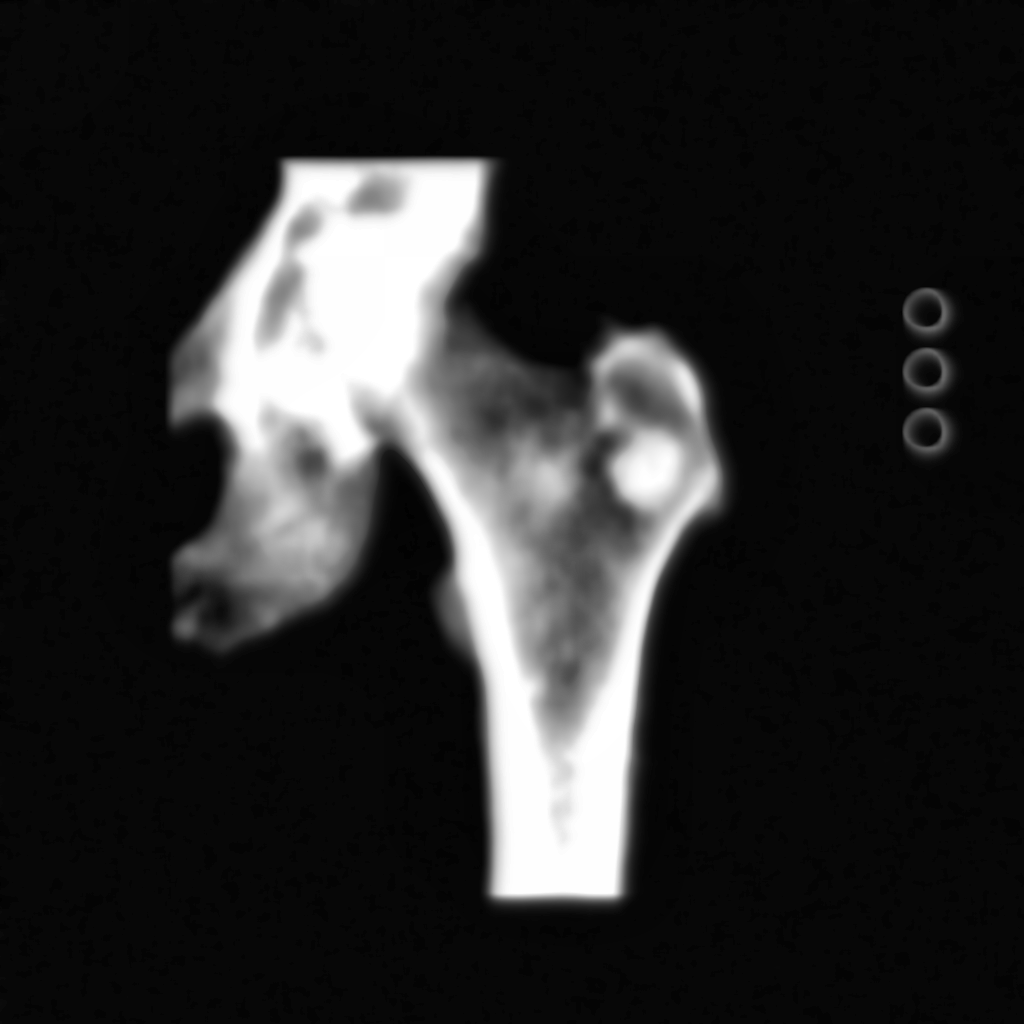
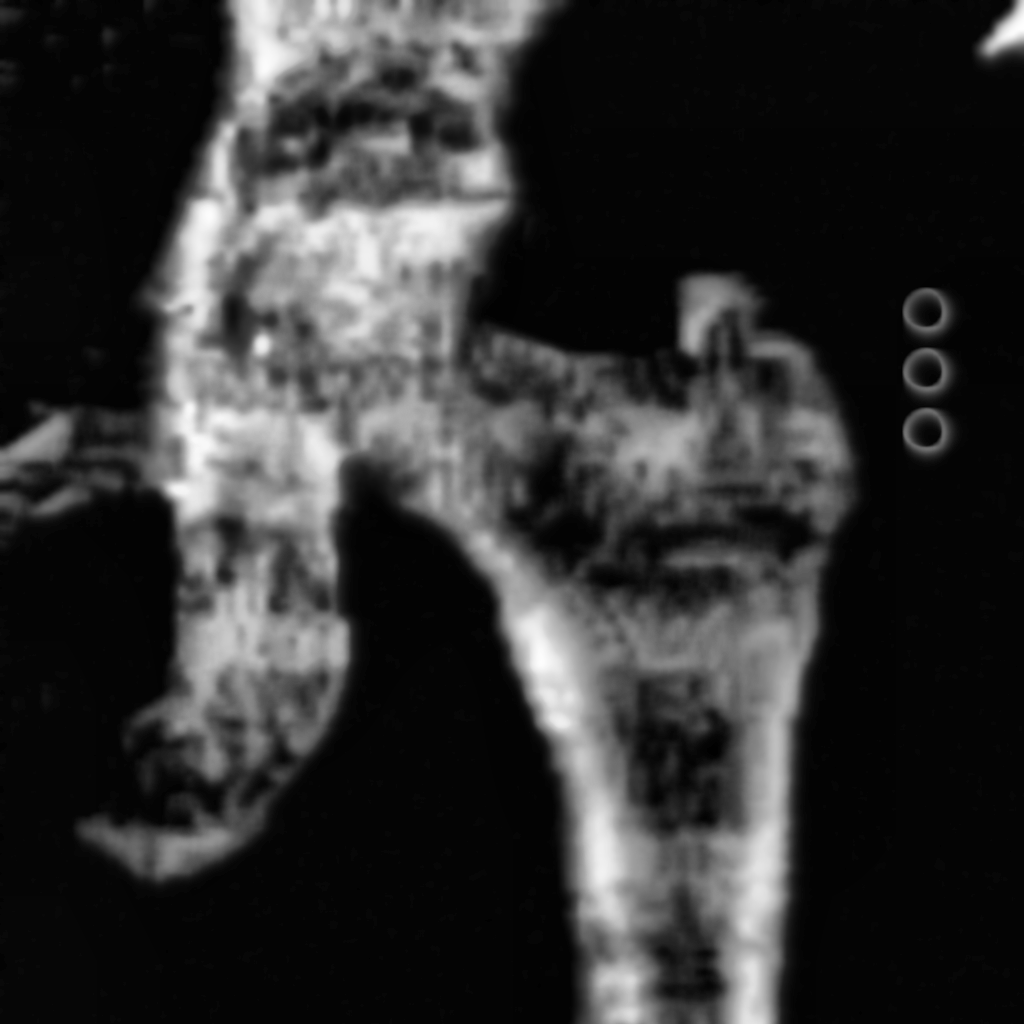
working

diff --git a/src/kalman_filter.py b/src/kalman_filter.py
@@ -23,6 +23,10 @@ class KalmanFilterImage:
 
     Applies multiple 1-D Kalman sweeps along rows and then columns
     to achieve 2-D smoothing.
+    
+    CONCEPTO CLAVE DEL CURSO: Este filtro implementa estimación recursiva bayesiana
+    aplicando el teorema de Bayes para actualizar la estimación del estado (valor del píxel)
+    con cada nueva observación (píxel ruidoso).
     """
     def __init__(self,
                  process_noise: float = 1e-5,
@@ -30,72 +34,106 @@ class KalmanFilterImage:
                  initial_uncertainty: float = 1.0,
                  passes: int = 2):
         """
+        Inicialización del filtro de Kalman con parámetros clave.
+        
+        CONCEPTOS DEL CURSO APLICADOS:
+        - process_noise (Q): Incertidumbre del modelo de estado
+        - measurement_noise (R): Incertidumbre de la observación
+        - initial_uncertainty (P0): Incertidumbre inicial a priori
+        
         Args:
-            process_noise:       Q (process variance, on [0,1] scale)
-            measurement_noise:   R (measurement variance, on [0,1] scale)
-            initial_uncertainty: initial P (variance) at start of each scanline
-            passes:              how many horizontal+vertical sweeps to do
+            process_noise:       Q (process variance, on [0,1] scale) - Ruido del proceso
+            measurement_noise:   R (measurement variance, on [0,1] scale) - Ruido de medición
+            initial_uncertainty: initial P (variance) at start of each scanline - Incertidumbre inicial
+            passes:              how many horizontal+vertical sweeps to do - Número de pasadas
         """
-        self.Q = process_noise
-        self.R = measurement_noise
-        self.P0 = initial_uncertainty
-        self.passes = max(1, passes)
+        # PARÁMETROS DEL FILTRO DE KALMAN (CONCEPTOS FUNDAMENTALES DEL CURSO)
+        self.Q = process_noise        # Q: Varianza del ruido del proceso (modelo de estado)
+        self.R = measurement_noise    # R: Varianza del ruido de medición (observaciones)
+        self.P0 = initial_uncertainty # P0: Incertidumbre inicial (varianza a priori)
+        self.passes = max(1, passes)  # Número de pasadas horizontales + verticales
+        
         logger.info(f"KalmanFilterImage(Q={self.Q}, R={self.R}, P0={self.P0}, passes={self.passes})")
 
     def filter_image(self, image: np.ndarray) -> np.ndarray:
         """
-        Apply the filter in 'passes' sweeps: horizontal then vertical.
-
+        Aplica el filtro de Kalman en múltiples pasadas: horizontal y luego vertical.
+        
+        ALGORITMO DE ESTIMACIÓN RECURSIVA:
+        1. Predicción: x̂(k|k-1) = x̂(k-1|k-1) (estado anterior)
+        2. Actualización: x̂(k|k) = x̂(k|k-1) + K(k)[z(k) - x̂(k|k-1)]
+        3. Ganancia de Kalman: K(k) = P(k|k-1) / [P(k|k-1) + R]
+        
         Args:
-            image: grayscale, uint8 or float32
+            image: grayscale, uint8 or float32 - Imagen de entrada
 
         Returns:
-            filtered image (float32, [0,1])
+            filtered image (float32, [0,1]) - Imagen filtrada
         """
+        # PREPROCESAMIENTO: Normalización de la imagen a rango [0,1]
         img = image.astype(np.float32)
         if img.max() > 1.0:
             img /= 255.0
 
-        H, W = img.shape
-        result = img.copy()
+        H, W = img.shape  # Dimensiones de la imagen
+        result = img.copy()  # Copia para procesamiento iterativo
 
+        # PASADAS MÚLTIPLES: Cada pasada mejora la estimación
         for sweep in range(self.passes):
-            # Horizontal pass
+            # PASADA HORIZONTAL: Procesa fila por fila (estimación recursiva)
             horiz = np.zeros_like(result)
-            for i in range(H):
+            for i in range(H):  # Para cada fila
+                # INICIALIZACIÓN DEL ESTADO: Primer píxel como estado inicial
                 x = result[i, 0]       # initial state = first pixel
-                P = self.P0
-                for j in range(W):
-                    # predict
-                    P_pred = P + self.Q
+                P = self.P0            # Incertidumbre inicial
+                
+                # ESTIMACIÓN RECURSIVA PIXEL POR PIXEL (CONCEPTO CLAVE)
+                for j in range(W):  # Para cada píxel en la fila
+                    # PASO 1: PREDICCIÓN (Prediction Step)
+                    # x̂(k|k-1) = F·x̂(k-1|k-1) donde F=1 (modelo de estado simple)
+                    # P(k|k-1) = F·P(k-1|k-1)·F^T + Q
+                    P_pred = P + self.Q  # Predicción de la incertidumbre
 
-                    # observe
-                    z = result[i, j]
+                    # PASO 2: OBSERVACIÓN (Measurement)
+                    z = result[i, j]  # Observación actual (píxel ruidoso)
 
-                    # Kalman update
+                    # PASO 3: ACTUALIZACIÓN DE KALMAN (Update Step)
+                    # Ganancia de Kalman: K(k) = P(k|k-1) / [P(k|k-1) + R]
                     K = P_pred / (P_pred + self.R)
+                    
+                    # Estimación actualizada: x̂(k|k) = x̂(k|k-1) + K(k)[z(k) - x̂(k|k-1)]
                     x = x + K * (z - x)
+                    
+                    # Incertidumbre actualizada: P(k|k) = (1 - K(k))·P(k|k-1)
                     P = (1 - K) * P_pred
 
+                    # Guarda el píxel estimado
                     horiz[i, j] = x
 
-            # Vertical pass
+            # PASADA VERTICAL: Procesa columna por columna (segunda dimensión)
             vert = np.zeros_like(horiz)
-            for j in range(W):
-                x = horiz[0, j]
-                P = self.P0
-                for i in range(H):
-                    P_pred = P + self.Q
-                    z = horiz[i, j]
+            for j in range(W):  # Para cada columna
+                # Reinicialización para la pasada vertical
+                x = horiz[0, j]  # Estado inicial = primer píxel de la columna
+                P = self.P0      # Incertidumbre inicial
+                
+                # ESTIMACIÓN RECURSIVA VERTICAL
+                for i in range(H):  # Para cada píxel en la columna
+                    # Mismo proceso de predicción-actualización
+                    P_pred = P + self.Q  # Predicción
+                    z = horiz[i, j]      # Observación
 
+                    # Actualización de Kalman
                     K = P_pred / (P_pred + self.R)
                     x = x + K * (z - x)
                     P = (1 - K) * P_pred
 
                     vert[i, j] = x
 
+            # ACTUALIZACIÓN DEL RESULTADO: Cada pasada mejora la estimación
             result = vert
 
+        # POSTPROCESAMIENTO: Asegura valores en rango válido
         return np.clip(result, 0.0, 1.0)
 
 
@@ -105,8 +143,21 @@ def apply_kalman_filter(image: np.ndarray,
                         initial_uncertainty: float = 1.0,
                         passes: int = 2) -> np.ndarray:
     """
-    Convenience entry point.
+    Punto de entrada conveniente para aplicar el filtro de Kalman.
+    
+    INTERFAZ SIMPLIFICADA: Permite usar el filtro sin crear instancia explícita.
+    
+    Args:
+        image: Imagen de entrada
+        process_noise: Q - Ruido del proceso (pequeño para estabilidad)
+        measurement_noise: R - Ruido de medición (controla suavizado)
+        initial_uncertainty: P0 - Incertidumbre inicial
+        passes: Número de pasadas horizontales + verticales
+    
+    Returns:
+        Imagen filtrada con ruido reducido
     """
+    # CREACIÓN Y APLICACIÓN DEL FILTRO
     kf = KalmanFilterImage(process_noise=process_noise,
                            measurement_noise=measurement_noise,
                            initial_uncertainty=initial_uncertainty,
@@ -117,20 +168,22 @@ def apply_kalman_filter(image: np.ndarray,
 if __name__ == "__main__":
     import matplotlib.pyplot as plt
 
-    # 1) Load and normalize a test image
+    # DEMOSTRACIÓN DEL FILTRO DE KALMAN
+    # 1) Carga y normalización de imagen de prueba
     clean = cv2.imread('lena.png', cv2.IMREAD_GRAYSCALE).astype(np.float32) / 255.0
 
-    # 2) Add strong noise (σ = 0.2)
+    # 2) Adición de ruido fuerte (σ = 0.2) para simular condiciones DXA
     noise_std = 0.2
     noisy = np.clip(clean + noise_std * np.random.randn(*clean.shape), 0, 1)
 
-    # 3) Apply Kalman smoothing with R = 0.2 (moderate smoothing) and 2 passes
+    # 3) Aplicación del filtro de Kalman con parámetros optimizados
+    # R = 0.2 (suavizado moderado) y 2 pasadas
     filtered = apply_kalman_filter(noisy,
-                                   process_noise=1e-5,
-                                   measurement_noise=0.2,
-                                   passes=2)
+                                   process_noise=1e-5,    # Q pequeño para estabilidad
+                                   measurement_noise=0.2, # R controla nivel de suavizado
+                                   passes=2)              # 2 pasadas para mejor resultado
 
-    # 4) Display side by side
+    # 4) Visualización lado a lado para comparación
     fig, axes = plt.subplots(1, 3, figsize=(15, 5))
     for ax, img, title in zip(axes,
                               [clean, noisy, filtered],

diff --git a/readme.md b/readme.md
@@ -31,7 +31,7 @@ This project implements a comprehensive DXA (Dual-energy X-ray Absorptiometry) i
 1. Clone or download the project files
 2. Navigate to the project directory:
    ```bash
-   cd "Maestria/cursos/Sem2/SP-2141 Teoría de la detección y estimación/proyecto/code"
+   cd "./code"
    ```
 
 3. Install required dependencies:
@@ -68,7 +68,7 @@ code/
 #### Single Image Processing
 
 ```bash
-python src/main.py input_image.png output_directory
+python src/main.py data/raw/Paciente01_HE.png results/   
 ```
 
 #### Batch Processing
@@ -297,7 +297,7 @@ This project is developed for academic purposes as part of the SP-2141 course at
 ## Contact
 
 **Author:** Carlos Benavides  
-**Email:** [Your Email]  
+**Email:** carlos.benavidesviquez@ucr.ac.cr
 **Course:** SP-2141 Teoría de la detección y estimación  
 **Institution:** Universidad de Costa Rica
 
